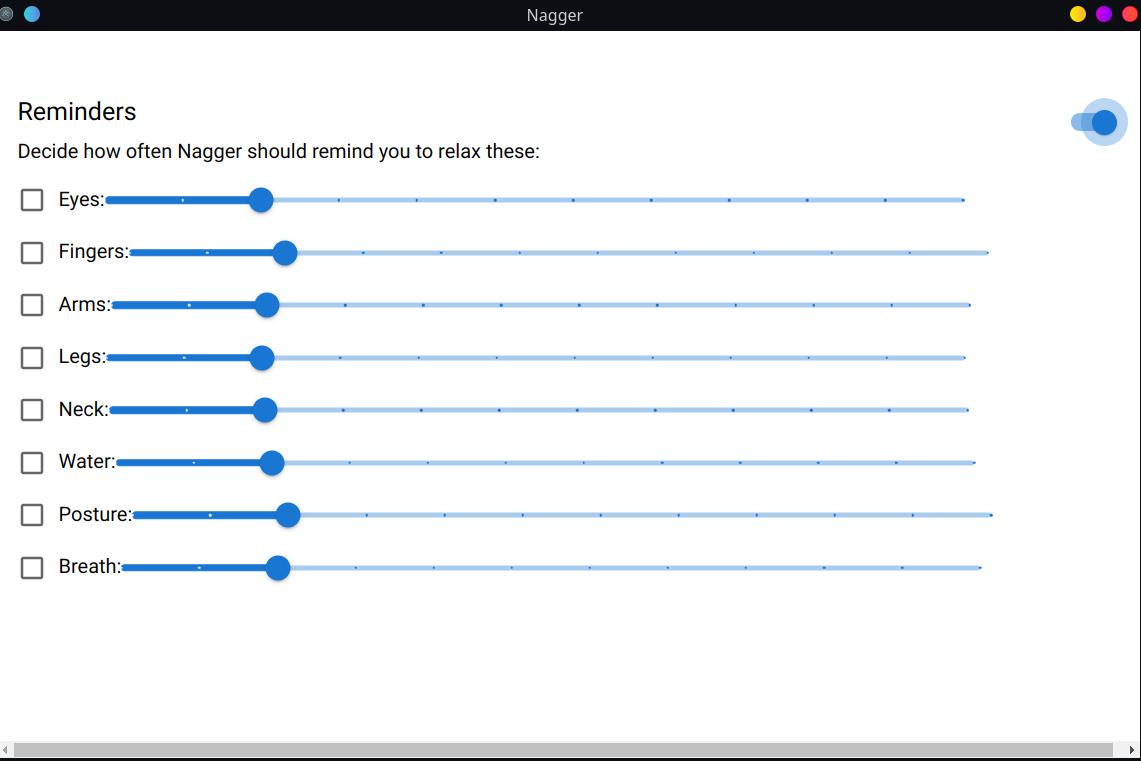
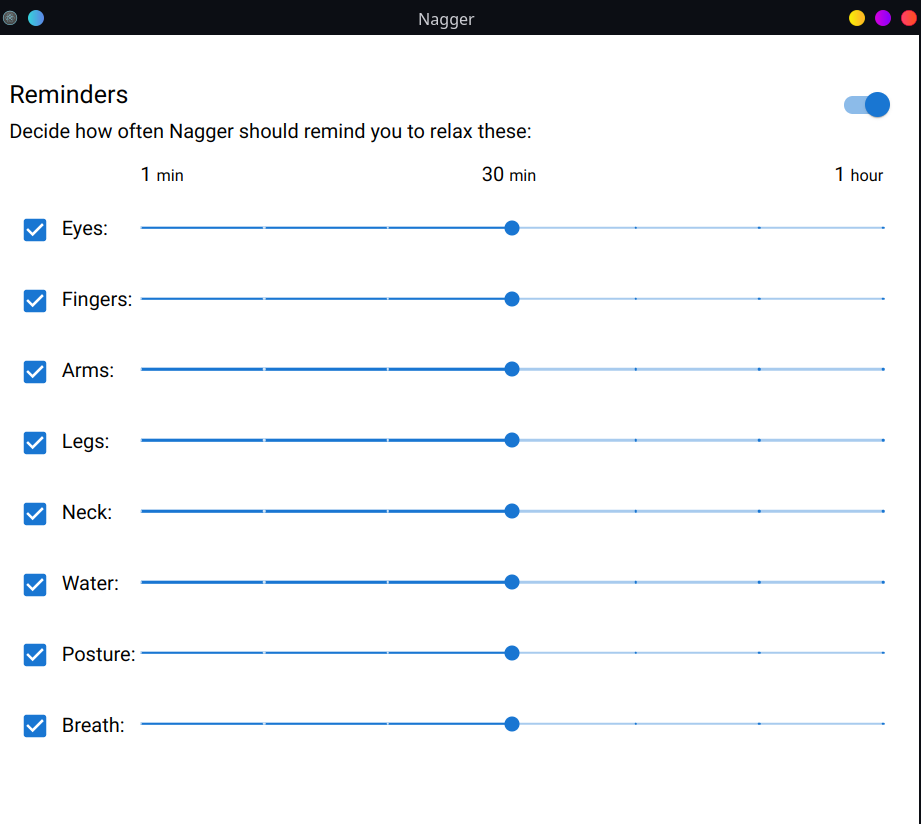
image updated

diff --git a/src/renderer/App.tsx b/src/renderer/App.tsx
@@ -84,10 +84,11 @@ function DiscreteSlider(props: part) {
     // <Box sx={{ width: 300 }}>
     <div className='cls_div_row'>
       <span className='cls_checkbox'>
-    <label><Checkbox />{props.text}:</label>
+    <label><Checkbox defaultChecked/>{props.text}:</label>
     </span>
     <span className='cls_slider'>
       <Slider
+        color='primary'
         aria-label="Minutes"
         defaultValue={30}
         getAriaValueText={valuetext}
@@ -96,7 +97,12 @@ function DiscreteSlider(props: part) {
         marks
         min={0}
         max={60}
-        size='medium'
+        size='small'
+        disabled={false}
+        sx={{
+          "Slider-thumb-width": "24px",
+        }}
+        
         
       />
       </span>
